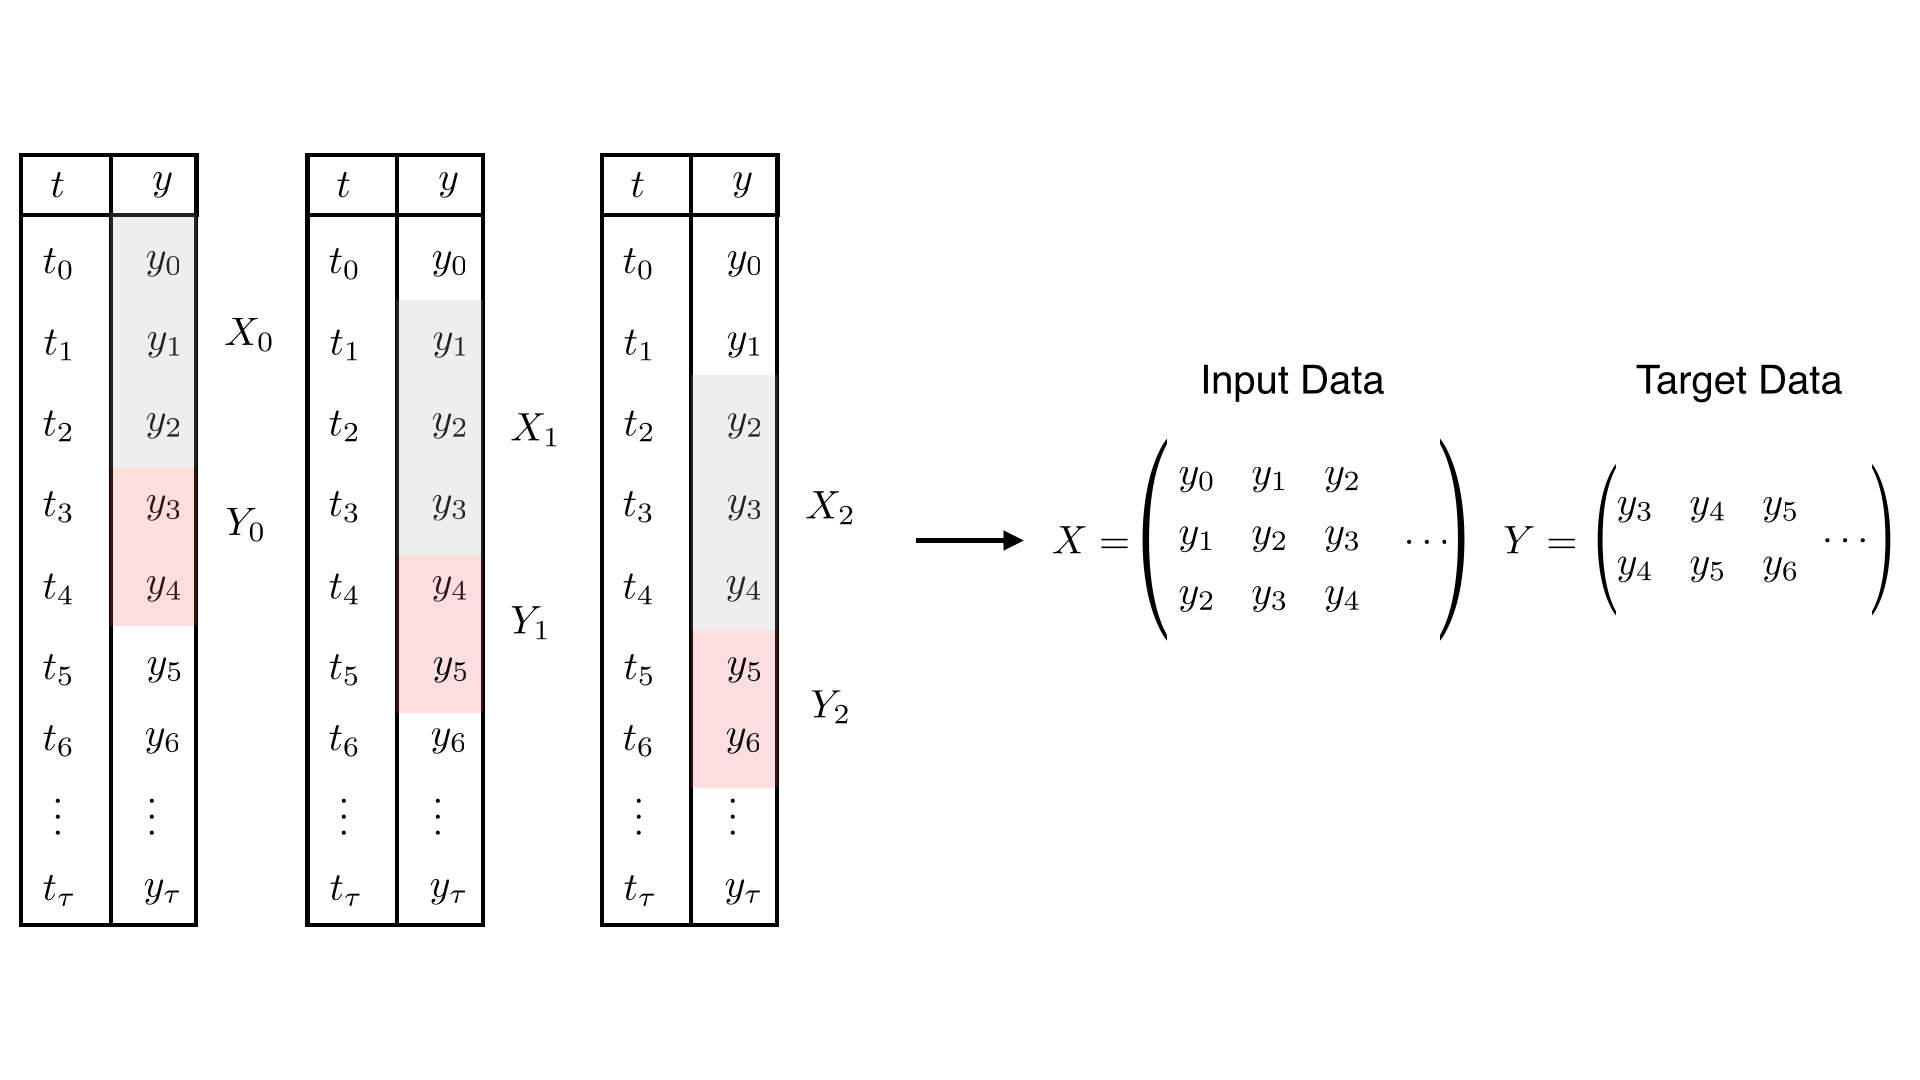
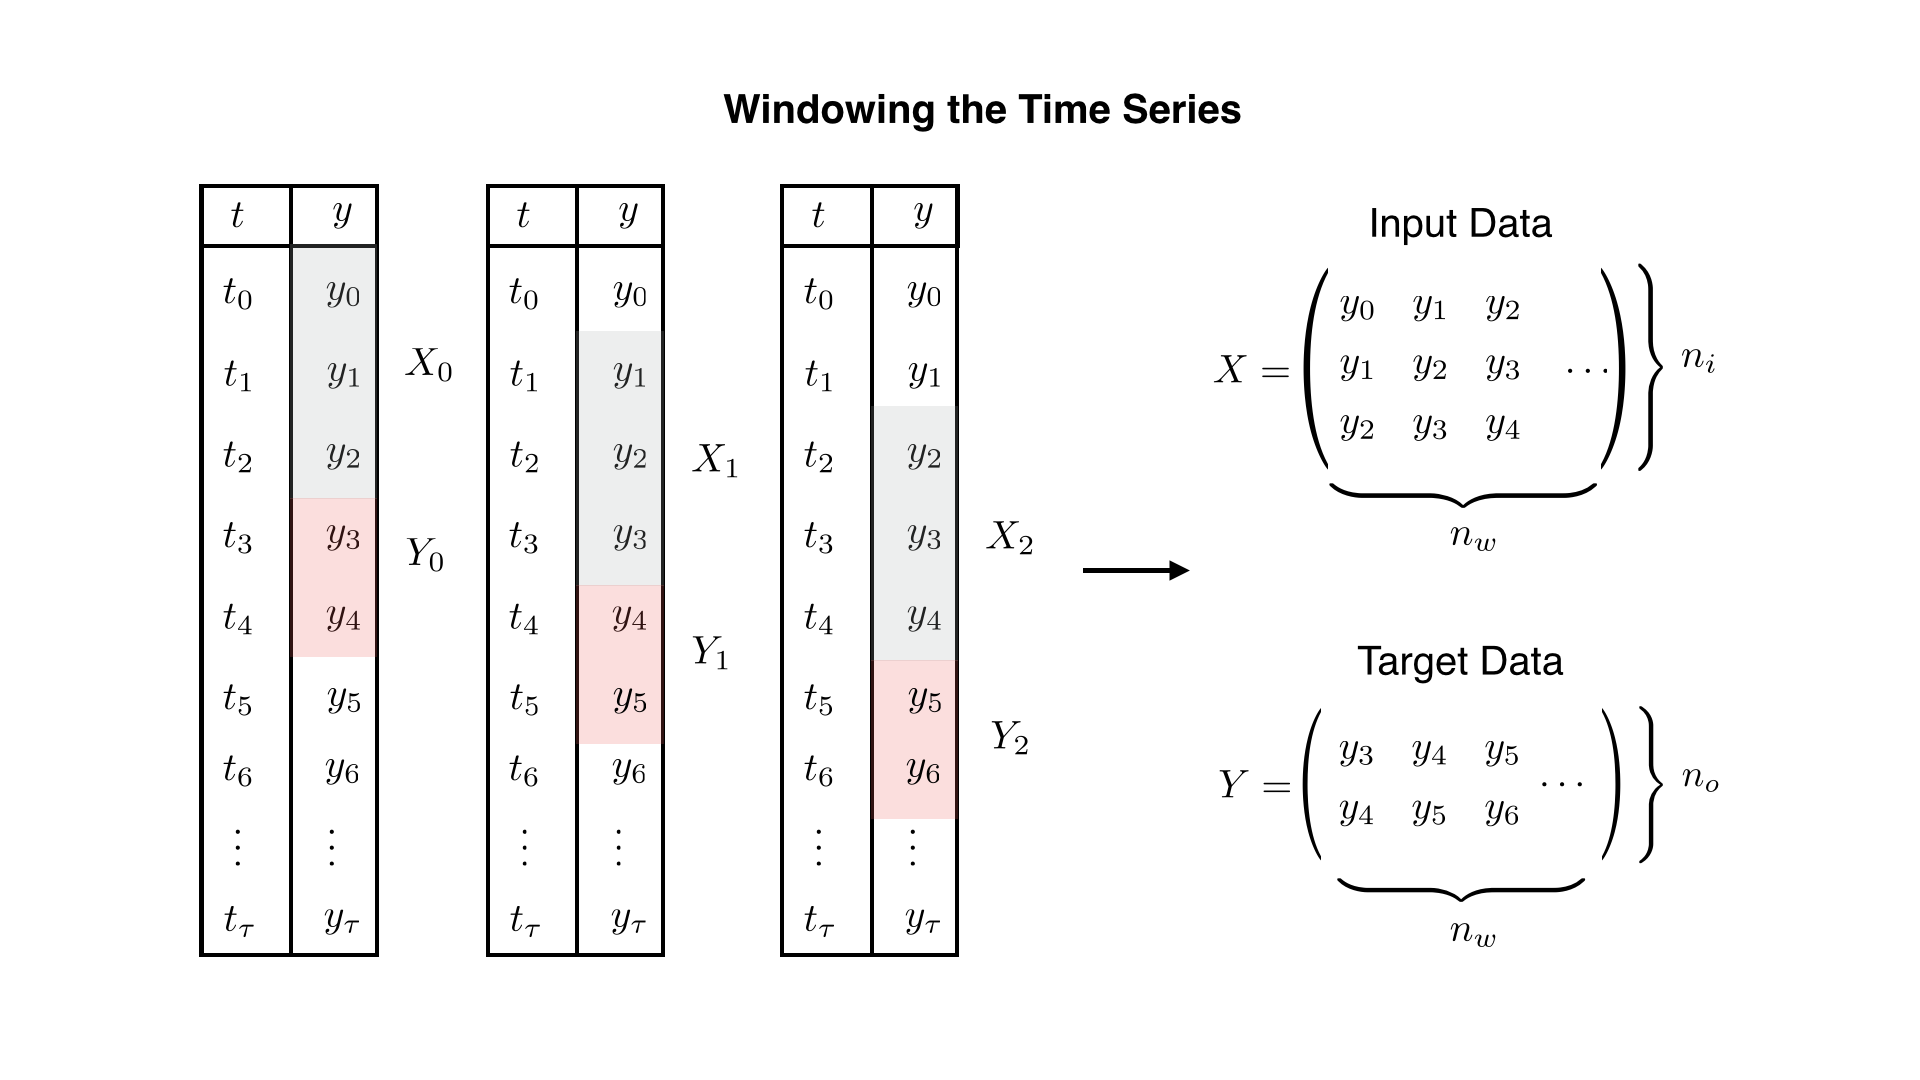
edit window figure

diff --git a/README.md b/README.md
@@ -48,8 +48,18 @@ Right now, we have our dataset as one long time series. In order to train the LS
   </p>
 
 
+We organize the input and target values of the windowing process into two matrices. The matrix, _X_, holds the 
 
-We we plotted our time series for _n<sub>i</sub>_ = 80, _n<sub>o</sub>_ = 20, and stride = 5. 
+We will feed _X_ and _Y_ into our LSTM encoder-decoder for training. and just X for testing
+
+
+input values: feed into the 
+
+compare the predictions to the 
+
+Let _N_ be the number of times the window fits the data. The LSTM encoder-decoder expects input of shape `[n<sub>]i<\sub>, # times the window fits into the data]`
+
+We have applied the windowing procedure to our synthetic time series, using _n<sub>i</sub>_ = 80, _n<sub>o</sub>_ = 20, and stride = 5. An example is shown below.  
 
 <p align="center">
   <img src="code/plots/windowed_data.png" width="500">
